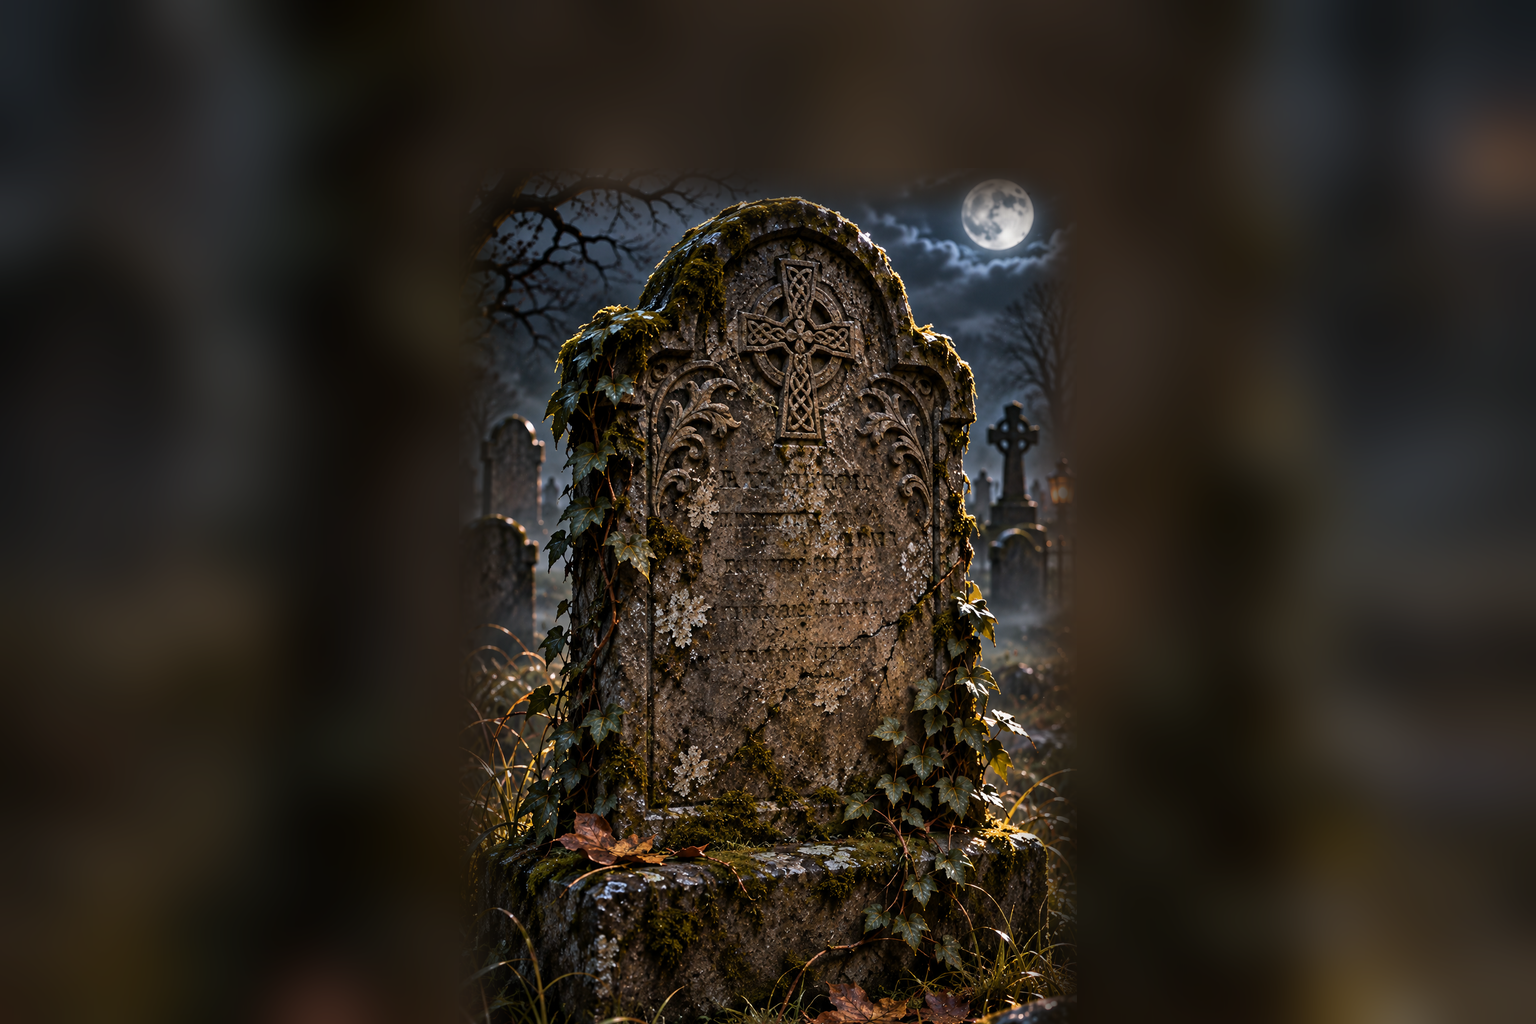
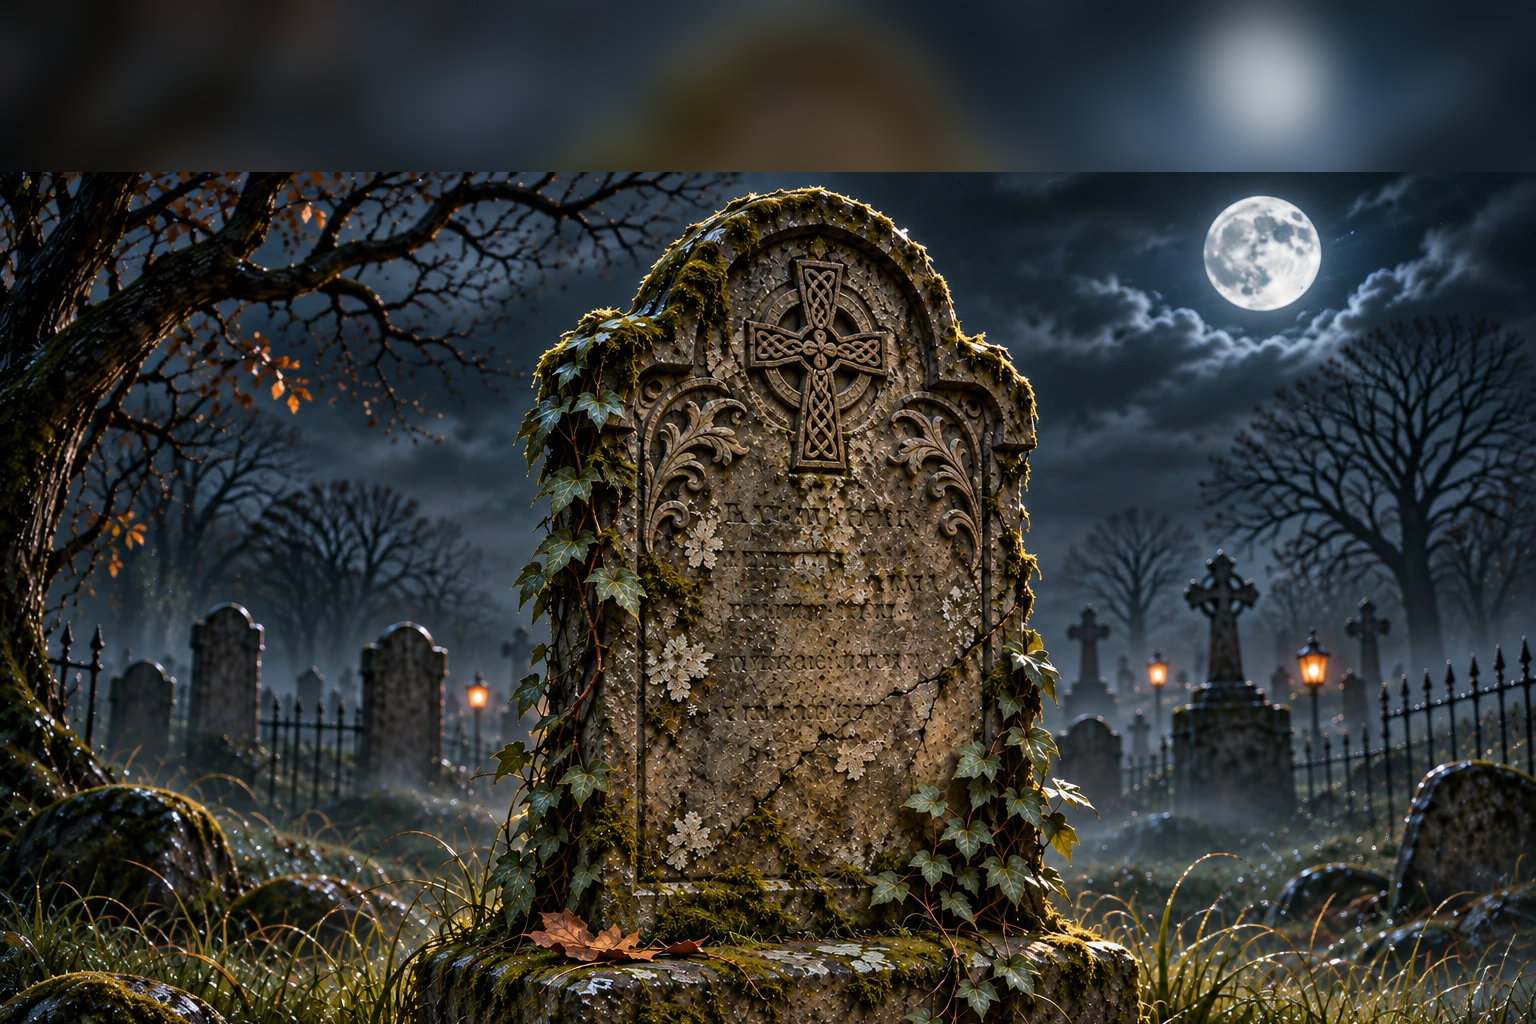
Use the new full-width gravestone painting for the gravestone close-up
The new 1536x1024 painting replaces the tall one: it fills the screen
(no blurred surround) and shows the whole arch, carved cross and
inscription. Hotspots re-measured; added the moon.

Claude-Session: https://claude.ai/code/session_01HPW4qFXH6Xbcc4jDiJpXNp

diff --git a/Data/Scenes.cs b/Data/Scenes.cs
@@ -299,13 +299,16 @@ namespace The_Mansion.Data
                      "Assets/Backgrounds/Mansion/gravestone_closeup.png",
                      "An old headstone, smothered in ivy and lichen. Its inscription has almost worn away.")
 
-            .Hotspot("Gravestone", 520, 200, 500, 600)
+            .Hotspot("Moon", 1200, 192, 130, 110)
+                .Describe("The full moon hangs low over the graveyard.")
+
+            .Hotspot("Gravestone", 525, 200, 505, 630)
                 .Describe("Ivy has crept up both sides of the stone, as if trying to hold it upright.")
 
-            .Hotspot("Carved Cross", 745, 235, 125, 215)
+            .Hotspot("Carved Cross", 740, 250, 150, 220)
                 .Describe("A small Celtic cross is carved at the top, the same knotwork as the great cross on the hill.")
 
-            .Hotspot("Inscription", 630, 450, 330, 270)
+            .Hotspot("Inscription", 680, 480, 280, 240)
                 .Describe("Most of the letters are gone. Only a few marks remain.")
                 .OnAct(p => p.TestWits()
                     ? "You trace the worn letters with your finger: \"...HERE LIES ... FAITHFUL ... KEEPER OF THE KEYS ...\""

diff --git a/Tools/build_wide_backgrounds.py b/Tools/build_wide_backgrounds.py
@@ -31,12 +31,12 @@ WIDE = [
     ("well_source.png",                    "well.png",                   60),
     ("graveyard_entrance_source.png",      "graveyard_entrance.png",    110),
     ("well_closeup_source.png",            "well_closeup.png",          170),
+    ("gravestone_closeup_source.png",      "gravestone_closeup.png",     20),
 ]
 
 FITTED = [
     # source painting                    output background            BOX
     ("cross_closeup_source.png",           "cross_closeup.png",         (120, 25, 1420, 905)),
-    ("gravestone_closeup_source.png",      "gravestone_closeup.png",    (40, 40, 984, 1100)),
 ]
 
 
